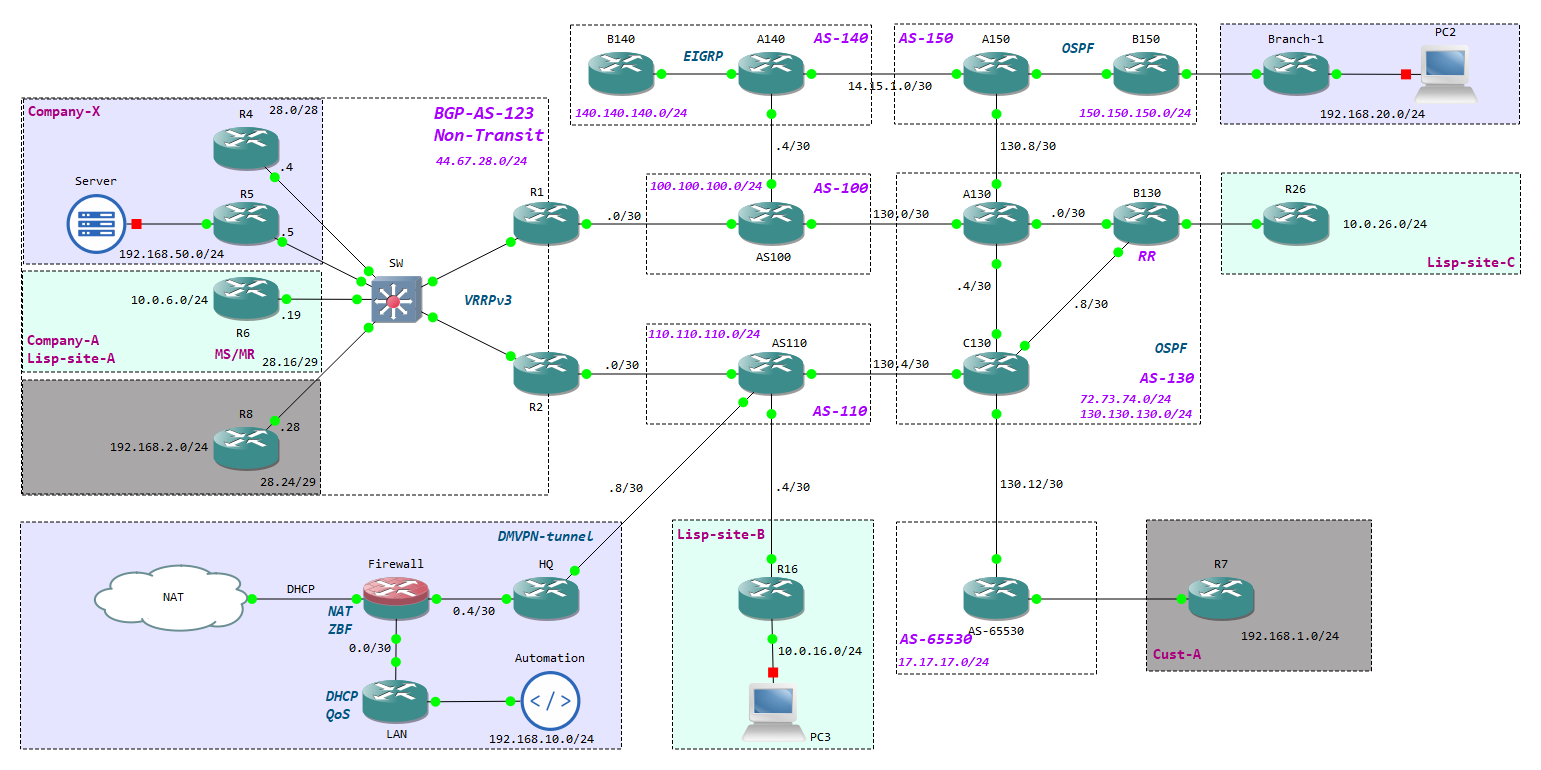
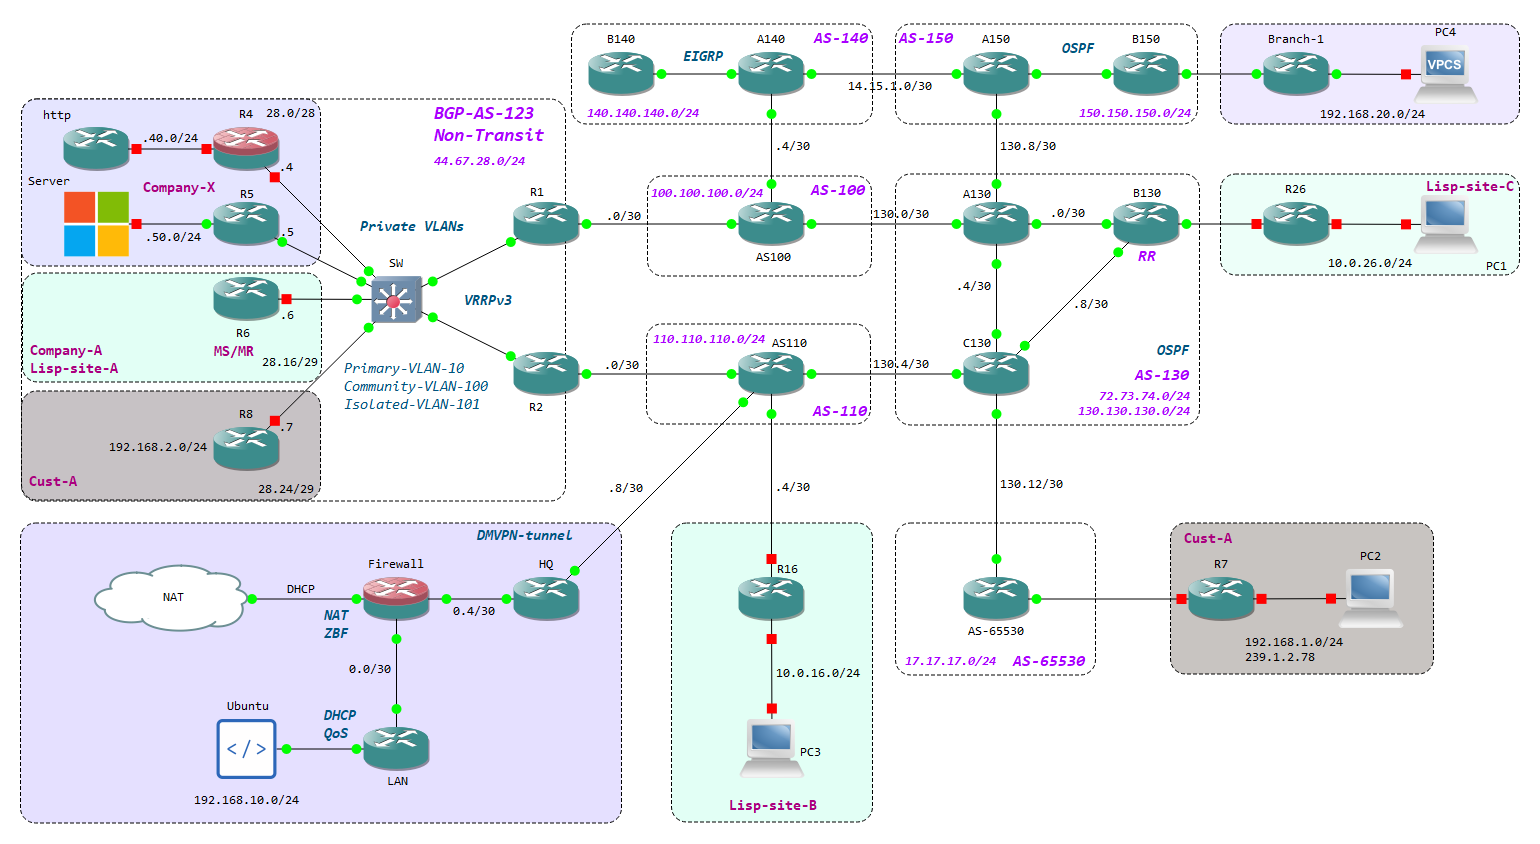
projects

diff --git a/Company-X/apis.py b/Company-X/apis.py
@@ -20,7 +20,7 @@ def snmpconfig(Device_ID: str, post:snmpclass):
     conn   = ConnectHandler(**device)
     conn.enable()
     commands = ['ip access-list standard SNMP-SERVER',
-                'permit udp host '+post.snmp_server+' '+'eq 161',
+                'permit host '+post.snmp_server,
                 'snmp-server community device_snmp ro SNMP-SERVER',
                 'snmp-server system-shutdown',
                 'snmp-server enable traps config',

diff --git a/README.md b/README.md
@@ -10,6 +10,11 @@ AS 123:
   - Inbound traffic is via R2 (AS-prepending)
 - AS is a non-transit AS
 
+Private VLANs (UPDATE):
+   - Private vlans have been configured on device (SW) to segregate traffic between clients
+       - Community VLAN 100 - Company X
+       - Isolated VLAN 101
+
 AS-130
   - Removes the private-AS while advertising the 17.17.17.0/24 prefix
   - Advertises only a default-route to AS65530
@@ -56,8 +61,31 @@ Company-X LAN router:
   - Scavenger traffic (torrent) is dropped.
   - Traffic destined to R5 is marked as critical data and given a CBWFQ bandwidth of 30% of CIR
 
+
+NAT:
+
+  - The router labeled as 'HTTP' operates in a manner that emulates the functionality of a web server.     
+  - Port forwarding measures have been appropriately established on the router denoted as R4, thereby enabling the accessibility of the HTTP service through the following endpoint: http://44.67.28.4/.
+
+
+Assurance:
+
+Company-X
+  - SNMP is configured on all Company-X routers to be monitored on the Server
+  - NetFlow is configured on LAN router to monitor traffic type traversing the network
+
+
 Security:
 
 Company-X firewall
   - Zone based firewall is configured to separate LAN and Internet links
   - Control-plane policing has been configured on HQ, R5 and Branch routers
+
+
+Images used:
+
+  - Routers:  i86bi-linux-l3-adventerprisek9-ms.155-2.T.bin
+  - Switches: i86bi_linux_l2-adventerprise-ms.high_iron_20170202.bin
+  - Server:   Win2k16_14393.0.161119-1705.RS1_REFRESH_SERVER_EVAL_X64FRE_EN-US.ISO
+  - Ubuntu:   Ubuntu Desktop VM
+  - PCs:      Webterm docker
